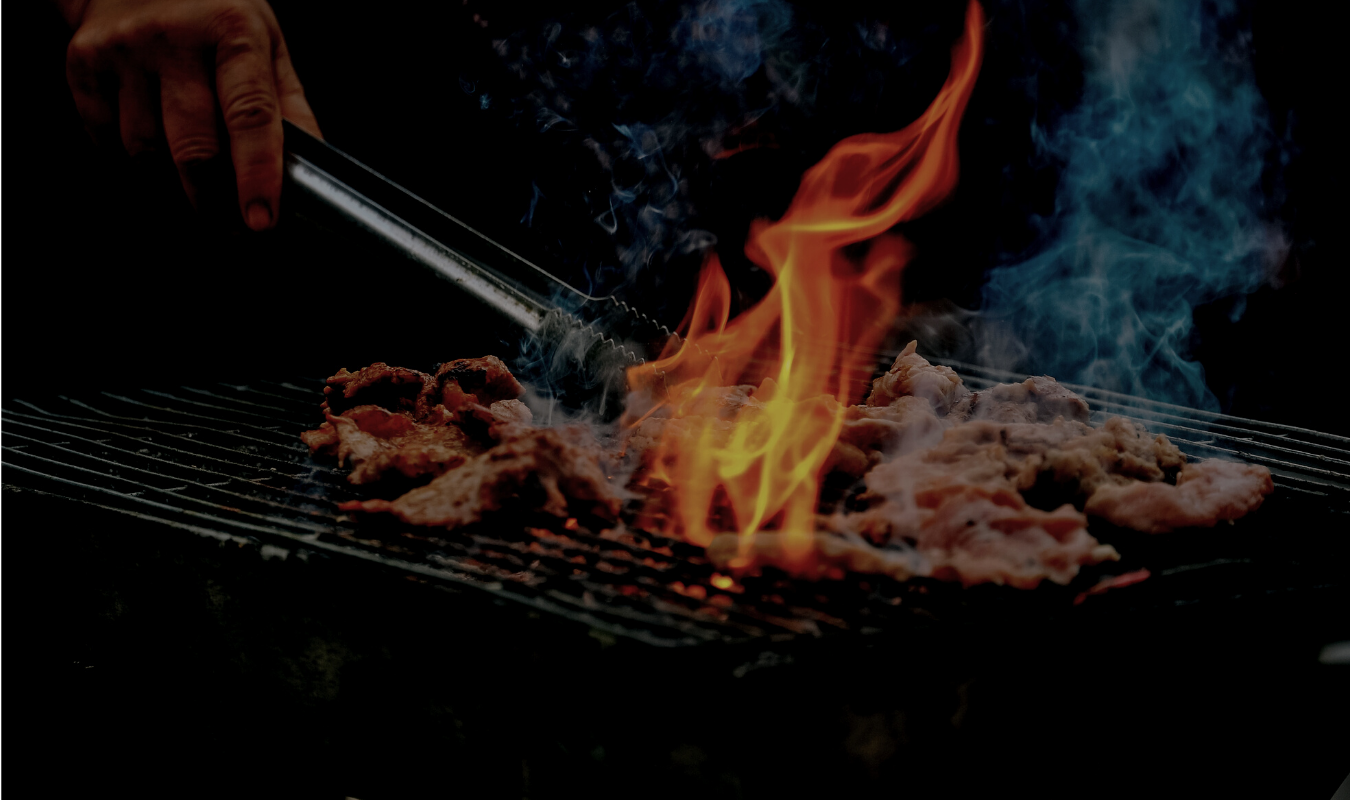
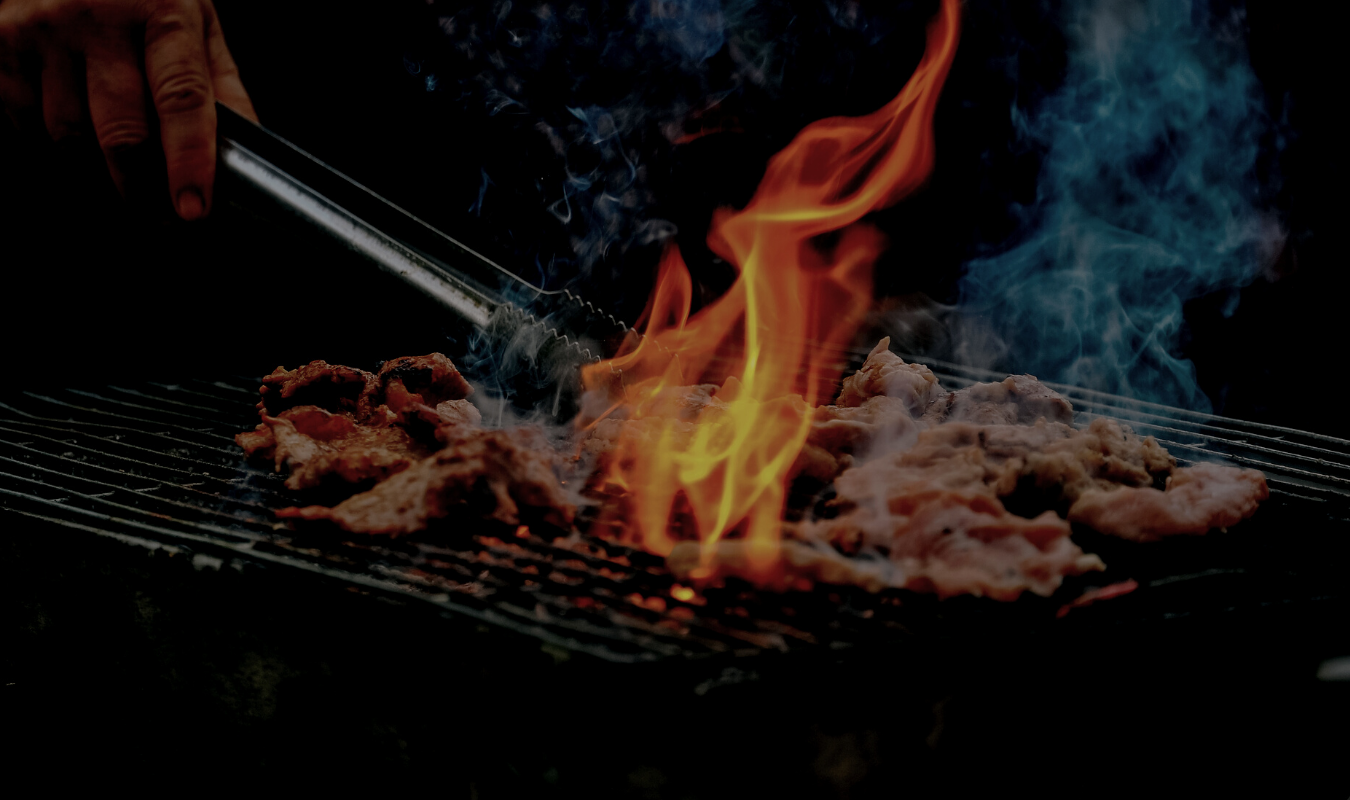
Font
Added a new font and fixed image so that there is no white line on the left

diff --git a/By the cook/assets/css/main.css b/By the cook/assets/css/main.css
@@ -1,6 +1,14 @@
 @import url("fontawesome-all.min.css");
 @import url("https://fonts.googleapis.com/css?family=Source+Sans+Pro:400,400italic");
+@font-face {
+    font-family: 'a_asian_ninjaregular';
+    src:   url('By the cook\assets\webfonts\aasianninja-webfont.woff') format('woff');
+    font-weight: normal;
+    font-style: normal;
 
+}
+	
+	
 /*
 	Strata by HTML5 UP
 	html5up.net | @ajlkn
@@ -103,7 +111,7 @@ input, select, textarea {
 
 	body, input, select, textarea {
 		color: #fbfbfb;
-		font-family: "Source Sans Pro", Helvetica, sans-serif;
+		font-family: 'Oregano';
 		font-size: 16pt;
 		font-weight: 400;
 		line-height: 1.75em;
@@ -115,7 +123,7 @@ input, select, textarea {
 		-ms-transition: color 0.2s ease-in-out, border-color 0.2s ease-in-out;
 		transition: color 0.2s ease-in-out, border-color 0.2s ease-in-out;
 		border-bottom: dotted 1px;
-		color: #ffffff;
+		color: #f6f6f6;
 		font-weight: bolder;
 		font-size: 16pt;
 		text-decoration: none;
@@ -2161,6 +2169,7 @@ input, select, textarea {
 			}
 		.image.welcome {
 			position: relative;
+		
 			display: flex;
 			justify-content: center;
 			align-items: center;

diff --git a/By the cook/byTheCook.html b/By the cook/byTheCook.html
@@ -18,7 +18,11 @@
 			<header id="header">
 				<div class="inner">
                     <a href="#" class="image avatar"><img src="images/Logo in Red.gif" alt="" /></a>
-                    <ul>
+                    <style>
+						@import url('https://fonts.googleapis.com/css2?family=Oregano&display=swap');
+						</style>
+						
+					<ul>
                         <li>
                             <a href="index.html#home">Home</a> 
                         </li>
